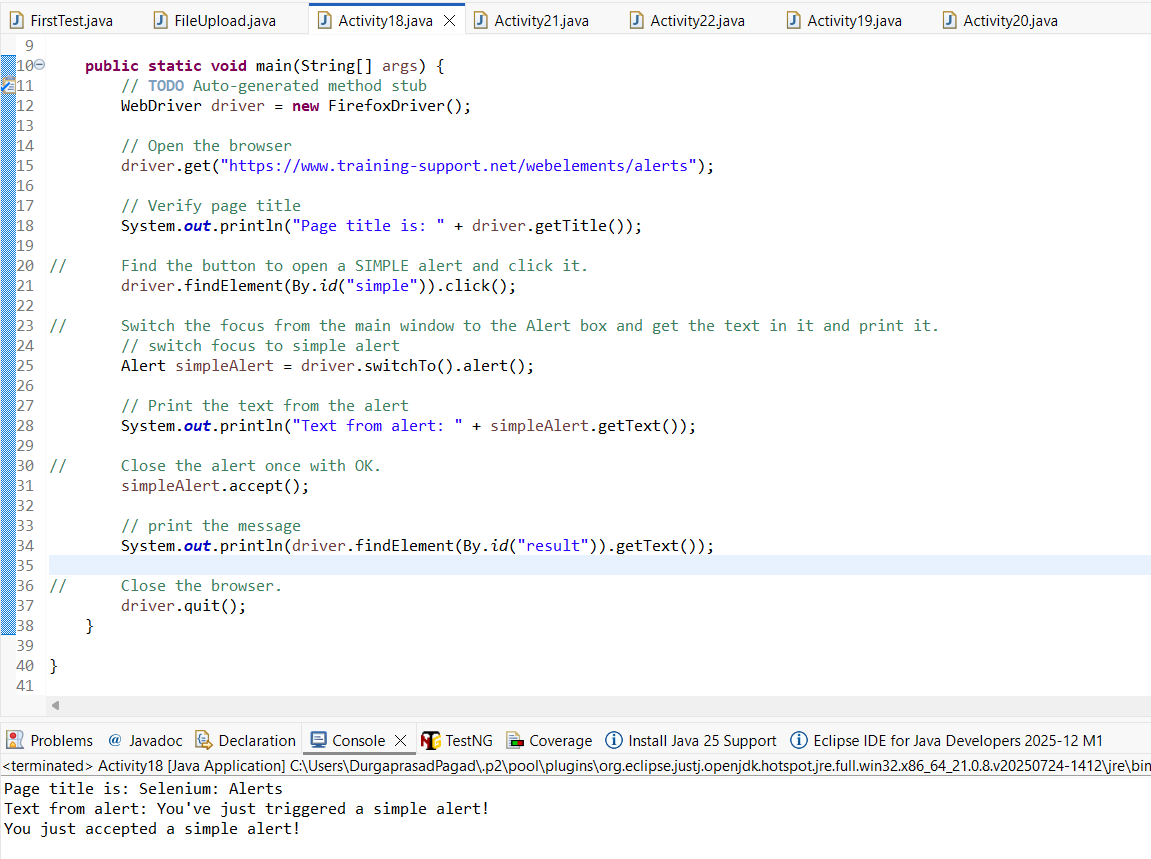
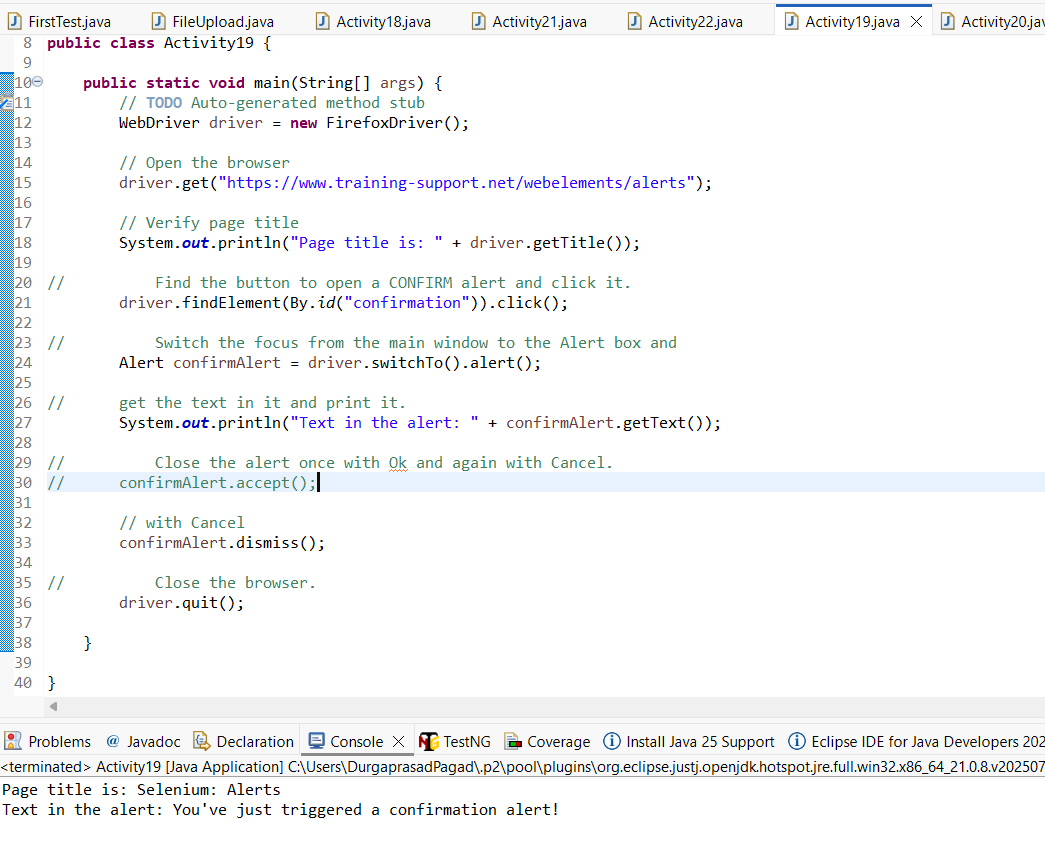
Activity19 - Alert confirmation & cancel

Changed region(s): [[0.0, 0.0, 1.0, 0.98], [0.0919, 0.6125, 0.6124, 0.6431], [0.0919, 0.6737, 0.3062, 0.735]]

diff --git a/Selenium/Activities/Activity19.java b/Selenium/Activities/Activity19.java
@@ -1,0 +1,40 @@
+package activities;
+
+import org.openqa.selenium.Alert;
+import org.openqa.selenium.By;
+import org.openqa.selenium.WebDriver;
+import org.openqa.selenium.firefox.FirefoxDriver;
+
+public class Activity19 {
+
+	public static void main(String[] args) {
+		// TODO Auto-generated method stub
+		WebDriver driver = new FirefoxDriver();
+
+		// Open the browser
+		driver.get("https://www.training-support.net/webelements/alerts");
+
+		// Verify page title
+		System.out.println("Page title is: " + driver.getTitle());
+
+//			Find the button to open a CONFIRM alert and click it.
+		driver.findElement(By.id("confirmation")).click();
+
+//			Switch the focus from the main window to the Alert box and 
+		Alert confirmAlert = driver.switchTo().alert();
+
+//		get the text in it and print it.
+		System.out.println("Text in the alert: " + confirmAlert.getText());
+
+//			Close the alert once with Ok and again with Cancel.
+		confirmAlert.accept();
+
+		// with Cancel
+//		confirmAlert.dismiss();
+
+//			Close the browser.
+		driver.quit();
+
+	}
+
+}
